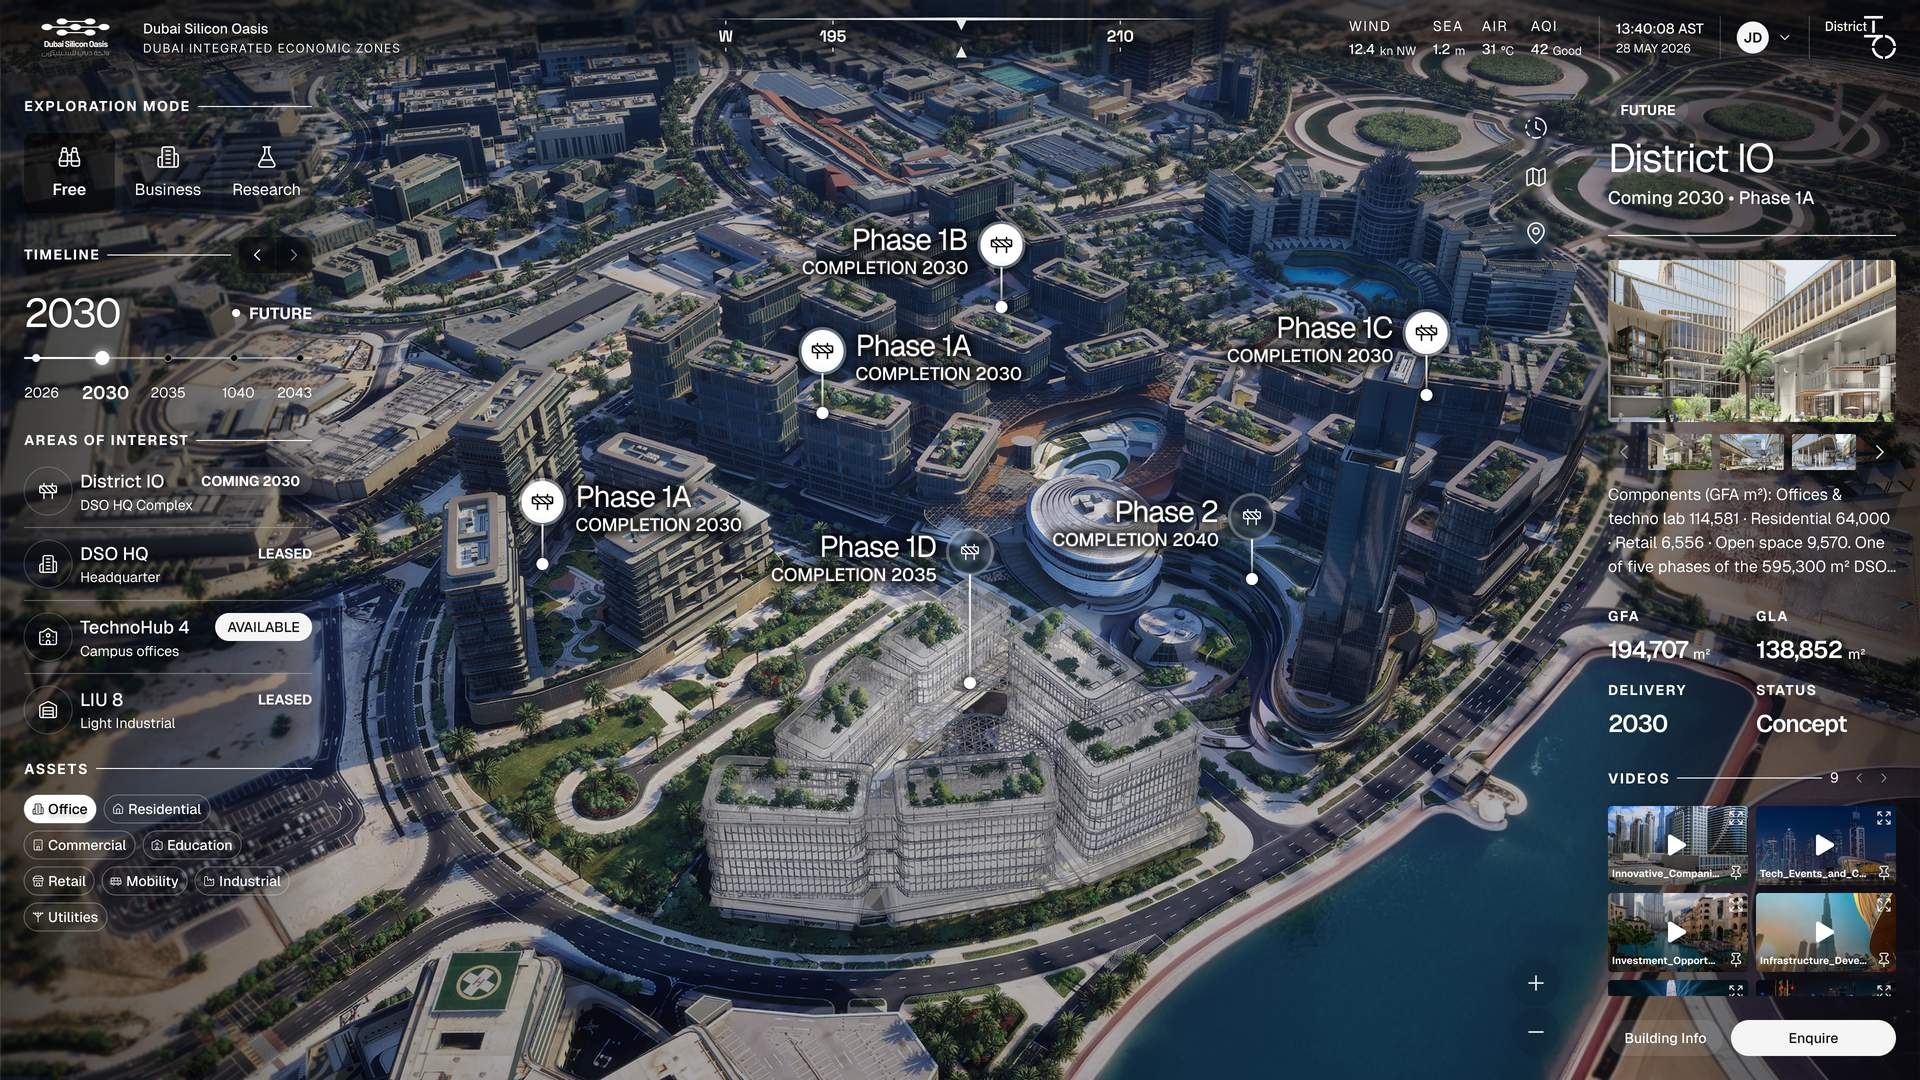
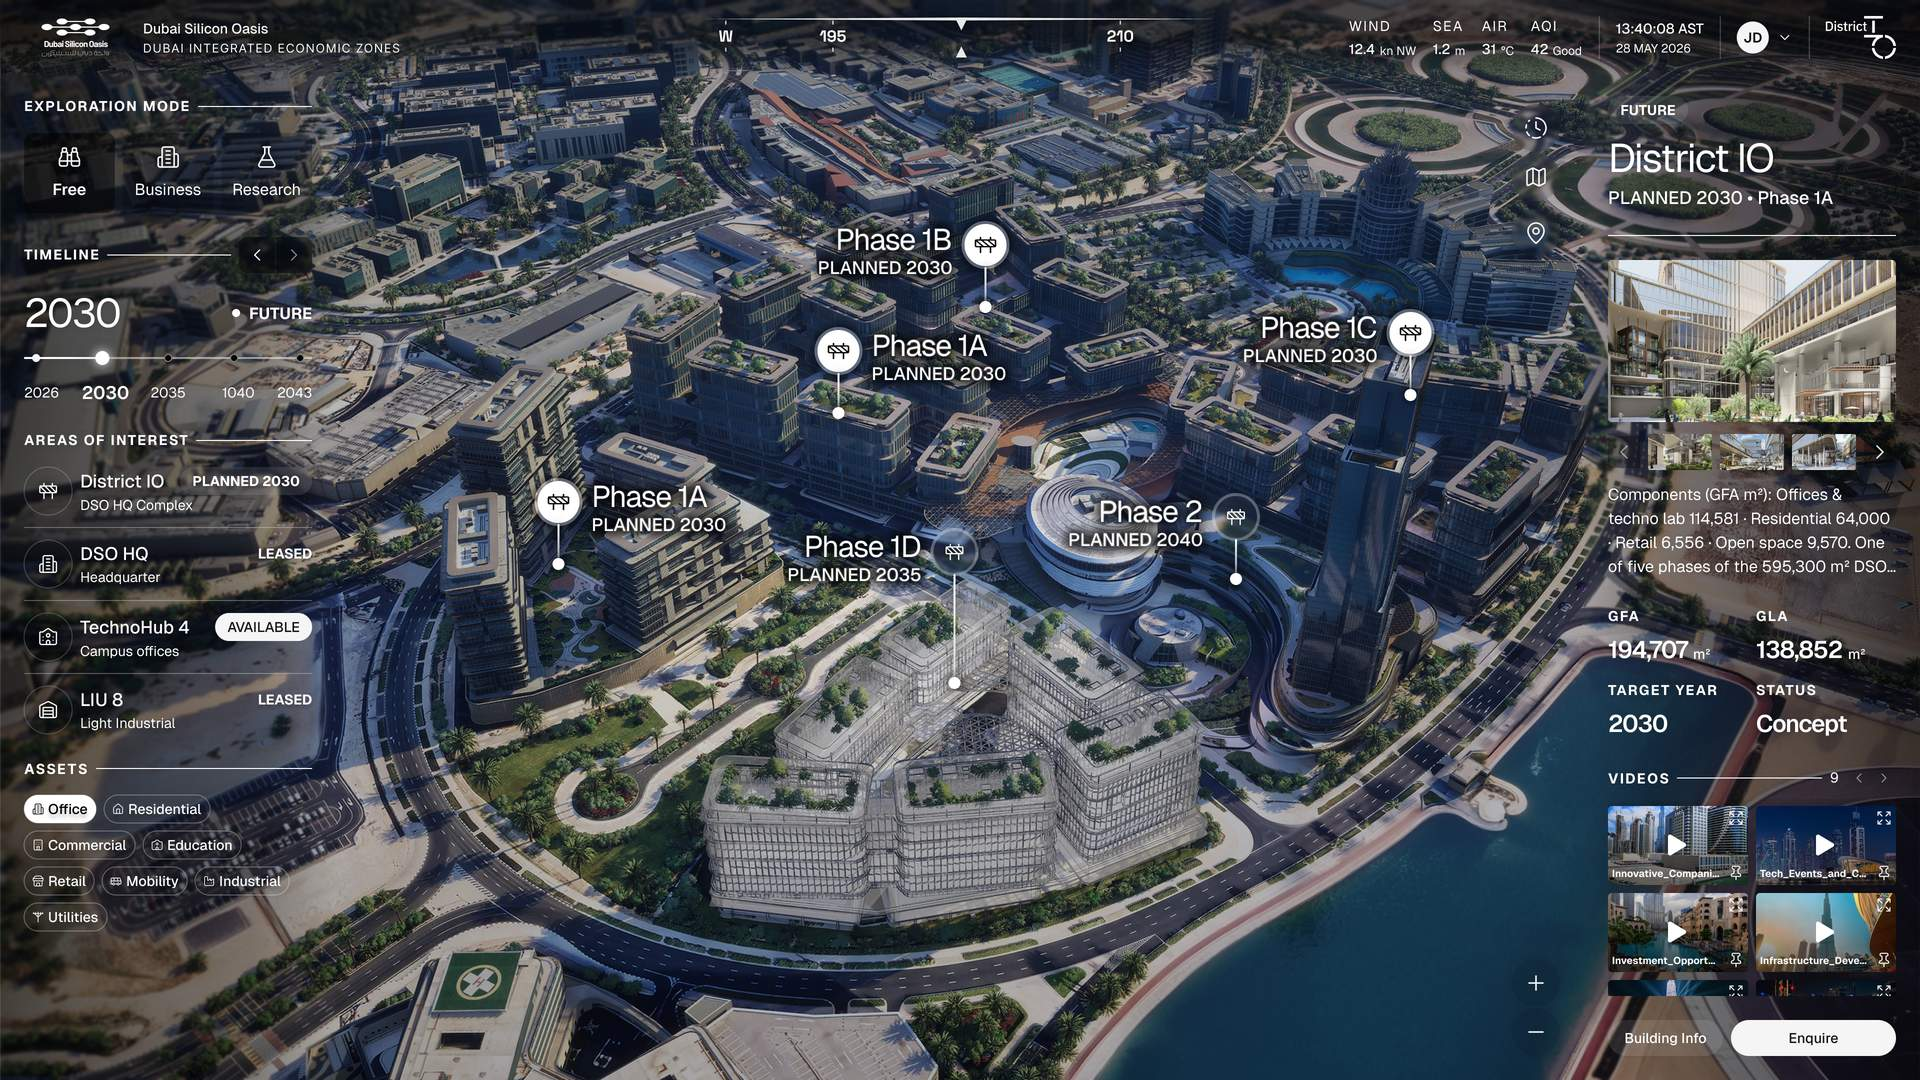
Update DSO planned phase labels and refreshed screenshots

diff --git a/README.md b/README.md
@@ -208,9 +208,11 @@ Update `package.json` and those display strings together on a release.
 
 Confidential. For authorised DSO and Vizzio stakeholders only.
 
-## Screenshot refresh (23 September 2026)
+## Screenshot refresh (24 September 2026)
 
 The current screenshots come from the [DSO Drive folder](https://drive.google.com/drive/folders/1ucPRvZ28rA2T3uZnaKQmSXSO3Pip1Va5).
 `tools/screenshot-sources.json` records each published asset, its source file and its checksum.
 Past uses LOD 3 in the guide, as requested, even though the supplied PNG filenames currently say LOD 2.
 The archive timelapse uses the 2005, 2010, 2015 and 2020 screenshots and ends with the 2026 Now view.
+
+The latest phase markers use Planned and the details panel uses Target Year. These indicate proposed timing, not completed construction.
